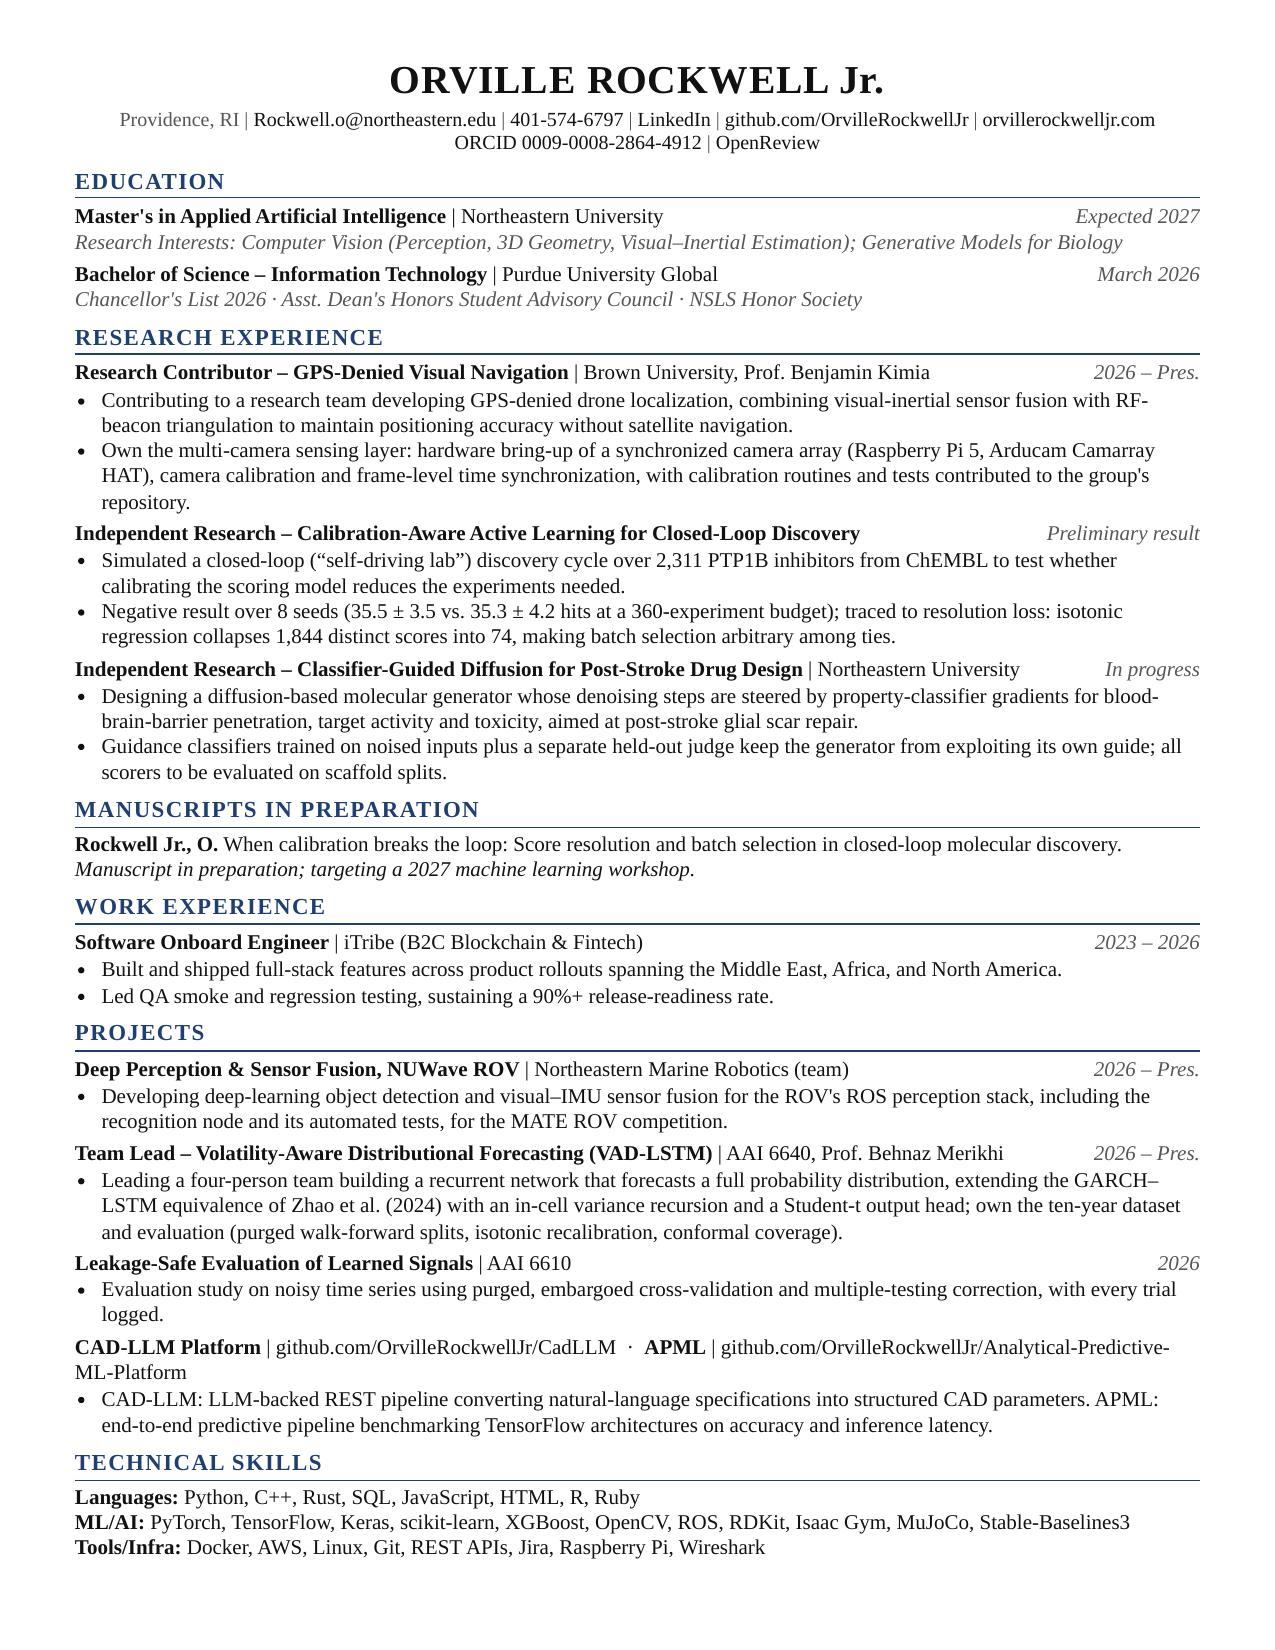
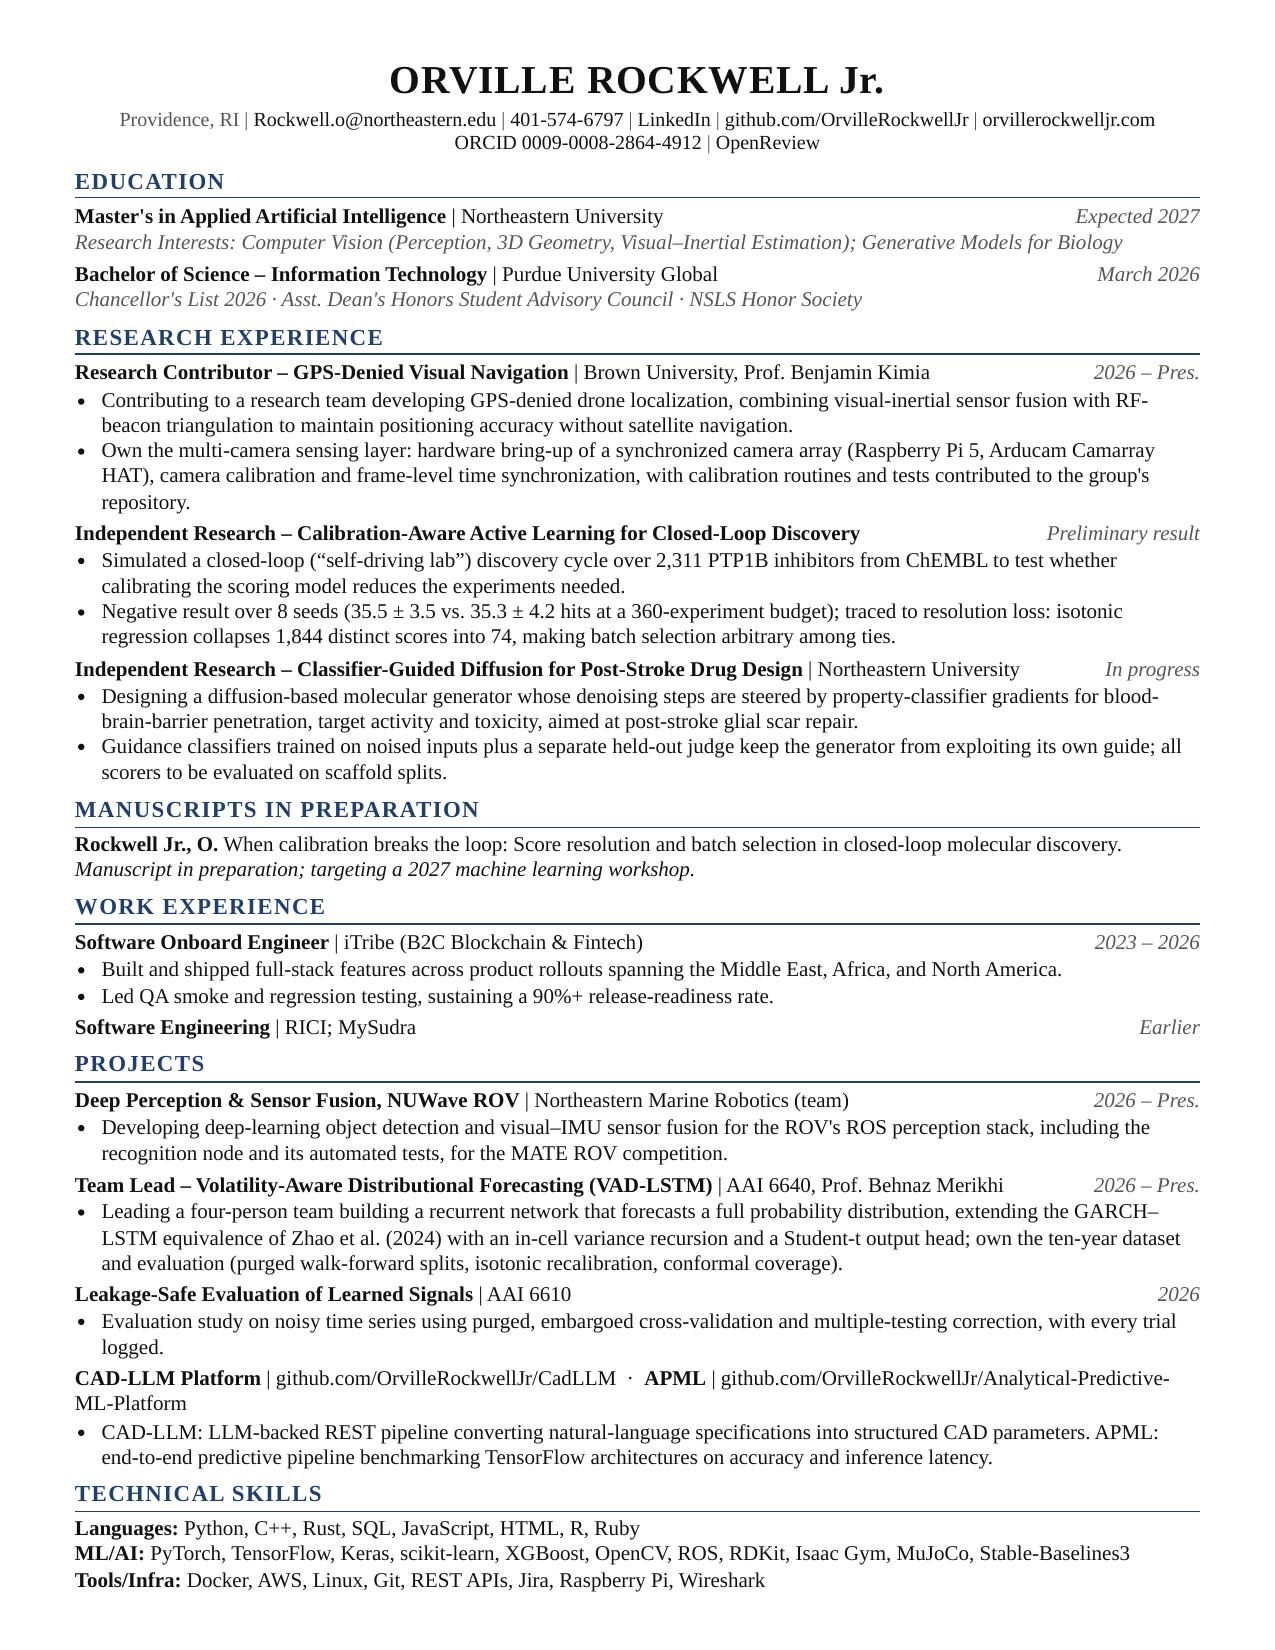
Hero spacing; CV: clickable email/phone/repo links, list RICI and MySudra to match site
Claude-Session: https://claude.ai/code/session_01LzMNsC2QWoDPGTEoMeo6Mp

Changed region(s): [[0.0612, 0.6182, 0.9482, 0.9582]]

diff --git a/_cv/cv.html b/_cv/cv.html
@@ -22,7 +22,7 @@ li{margin:0}
 </head>
 <body>
 <h1>ORVILLE ROCKWELL Jr.</h1>
-<div class="contact">Providence, RI | <b>Rockwell.o@northeastern.edu</b> | <b>401-574-6797</b> | <b><a href="https://www.linkedin.com/in/orville-rockwell-jr-92806528a">LinkedIn</a></b> | <b><a href="https://github.com/OrvilleRockwellJr">github.com/OrvilleRockwellJr</a></b> | <b><a href="https://orvillerockwelljr.com">orvillerockwelljr.com</a></b><br><b><a href="https://orcid.org/0009-0008-2864-4912">ORCID 0009-0008-2864-4912</a></b> | <b><a href="https://openreview.net/profile?id=~Orville_Rockwell_Jr.1">OpenReview</a></b></div>
+<div class="contact">Providence, RI | <b><a href="mailto:Rockwell.o@northeastern.edu">Rockwell.o@northeastern.edu</a></b> | <b><a href="tel:+14015746797">401-574-6797</a></b> | <b><a href="https://www.linkedin.com/in/orville-rockwell-jr-92806528a">LinkedIn</a></b> | <b><a href="https://github.com/OrvilleRockwellJr">github.com/OrvilleRockwellJr</a></b> | <b><a href="https://orvillerockwelljr.com">orvillerockwelljr.com</a></b><br><b><a href="https://orcid.org/0009-0008-2864-4912">ORCID 0009-0008-2864-4912</a></b> | <b><a href="https://openreview.net/profile?id=~Orville_Rockwell_Jr.1">OpenReview</a></b></div>
 
 <h2>Education</h2>
 <div class="row"><span><b>Master's in Applied Artificial Intelligence</b> | Northeastern University</span><span class="r">Expected 2027</span></div>
@@ -56,6 +56,7 @@ li{margin:0}
 <li>Built and shipped full-stack features across product rollouts spanning the Middle East, Africa, and North America.</li>
 <li>Led QA smoke and regression testing, sustaining a 90%+ release-readiness rate.</li>
 </ul>
+<div class="row"><span><b>Software Engineering</b> | RICI; MySudra</span><span class="r">Earlier</span></div>
 
 <h2>Projects</h2>
 <div class="row"><span><b>Deep Perception &amp; Sensor Fusion, NUWave ROV</b> | Northeastern Marine Robotics (team)</span><span class="r">2026 – Pres.</span></div>
@@ -70,7 +71,7 @@ li{margin:0}
 <ul>
 <li>Evaluation study on noisy time series using purged, embargoed cross-validation and multiple-testing correction, with every trial logged.</li>
 </ul>
-<div class="row"><span><b>CAD-LLM Platform</b> | github.com/OrvilleRockwellJr/CadLLM &nbsp;·&nbsp; <b>APML</b> | github.com/OrvilleRockwellJr/Analytical-Predictive-ML-Platform</span></div>
+<div class="row"><span><b>CAD-LLM Platform</b> | <a href="https://github.com/OrvilleRockwellJr/CadLLM">github.com/OrvilleRockwellJr/CadLLM</a> &nbsp;·&nbsp; <b>APML</b> | <a href="https://github.com/OrvilleRockwellJr/Analytical-Predictive-ML-Platform">github.com/OrvilleRockwellJr/Analytical-Predictive-ML-Platform</a></span></div>
 <ul>
 <li>CAD-LLM: LLM-backed REST pipeline converting natural-language specifications into structured CAD parameters. APML: end-to-end predictive pipeline benchmarking TensorFlow architectures on accuracy and inference latency.</li>
 </ul>

diff --git a/index.html b/index.html
@@ -290,6 +290,12 @@ footer::before{content:"";position:absolute;left:0;right:0;top:0;height:4px;back
 .less-btn[hidden]{display:none}
 .less-btn{display:block;margin-top:8px;padding:0;border:0;background:none;cursor:pointer;font-family:var(--sans);font-size:13.5px;font-weight:500;color:var(--t,var(--cv));text-decoration:underline;text-underline-offset:3px}
 @media print{.js .entry .key{display:block}.more-btn,.less-btn{display:none!important}}
+/* hero spacing */
+.mast .role{margin-top:14px;line-height:1.75}
+.mast .focus{margin-top:26px;gap:12px 12px}
+.mast .bio{margin-top:28px;line-height:1.75}
+.mast .links{margin-top:30px;gap:10px 28px}
+@media (min-width:760px){.mast .hero{padding-top:76px;padding-bottom:68px}}
 </style>
 </head>
 <body>
